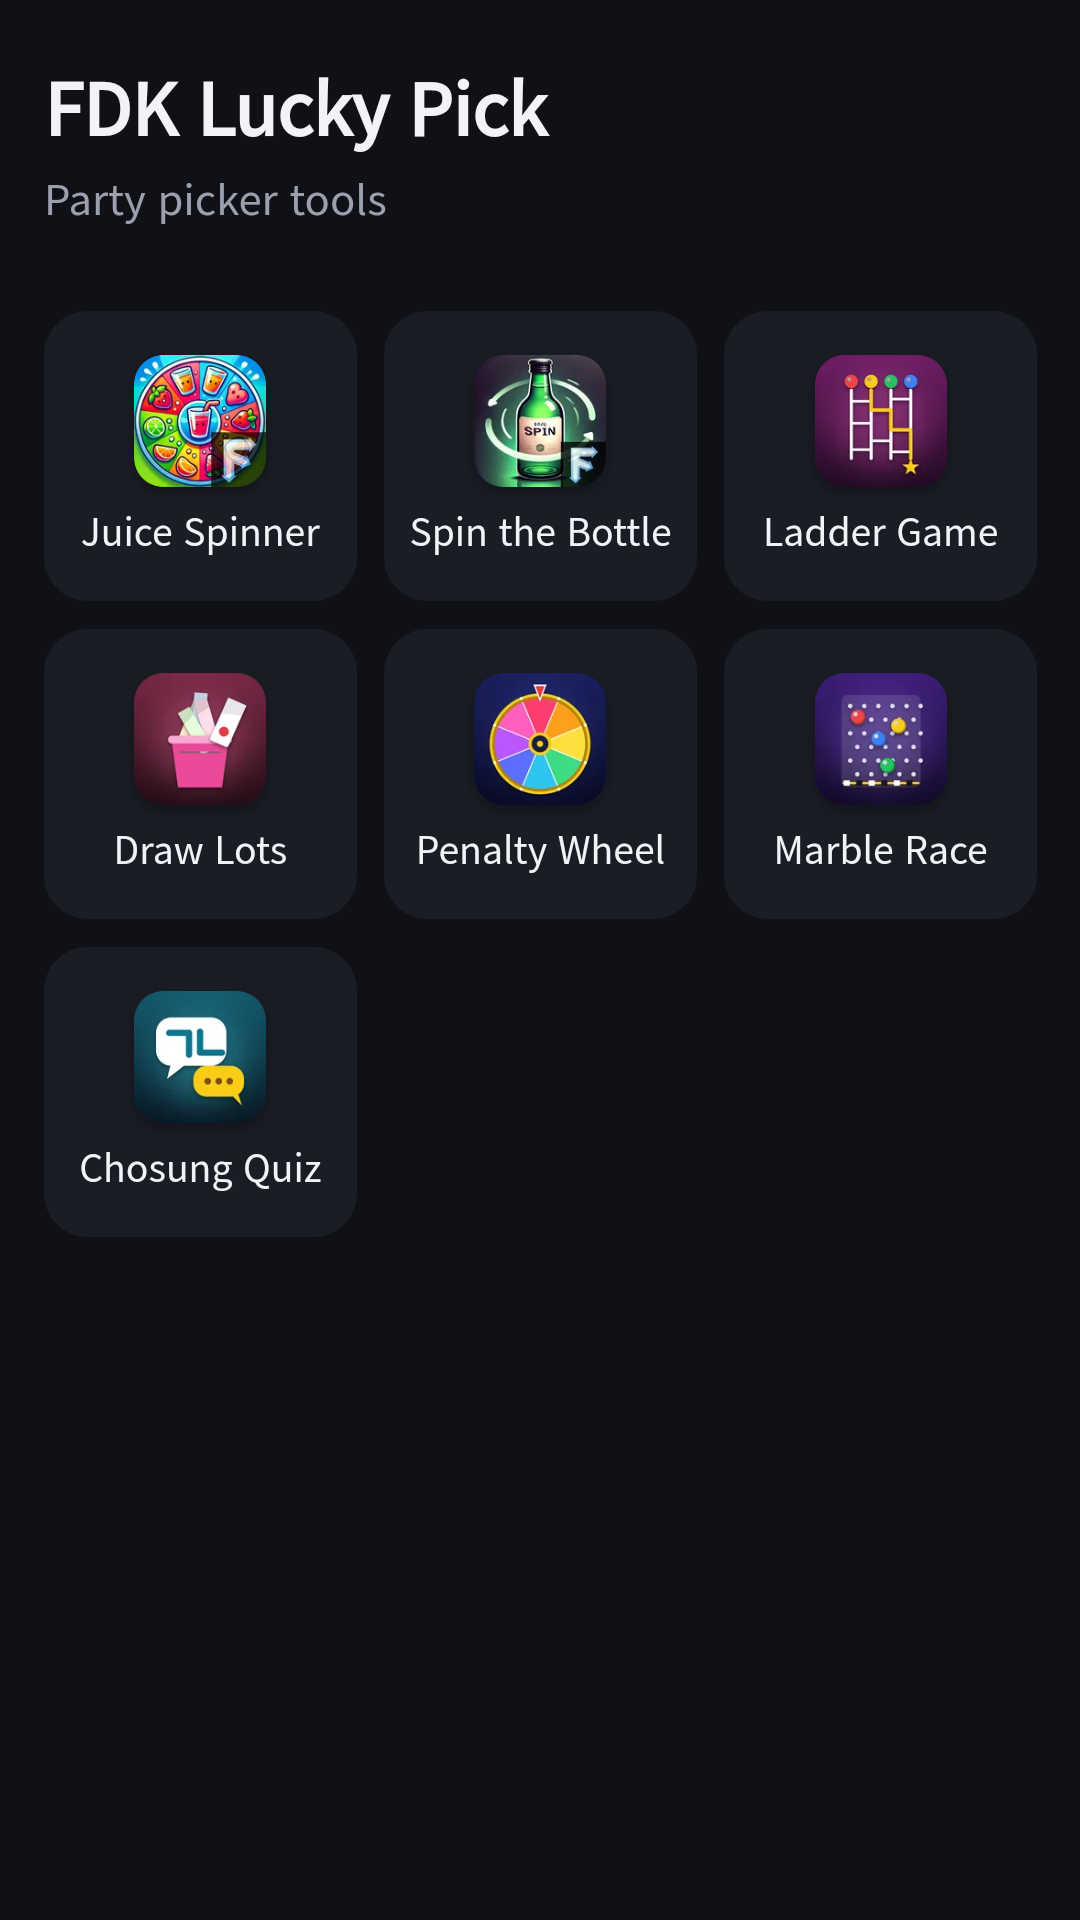
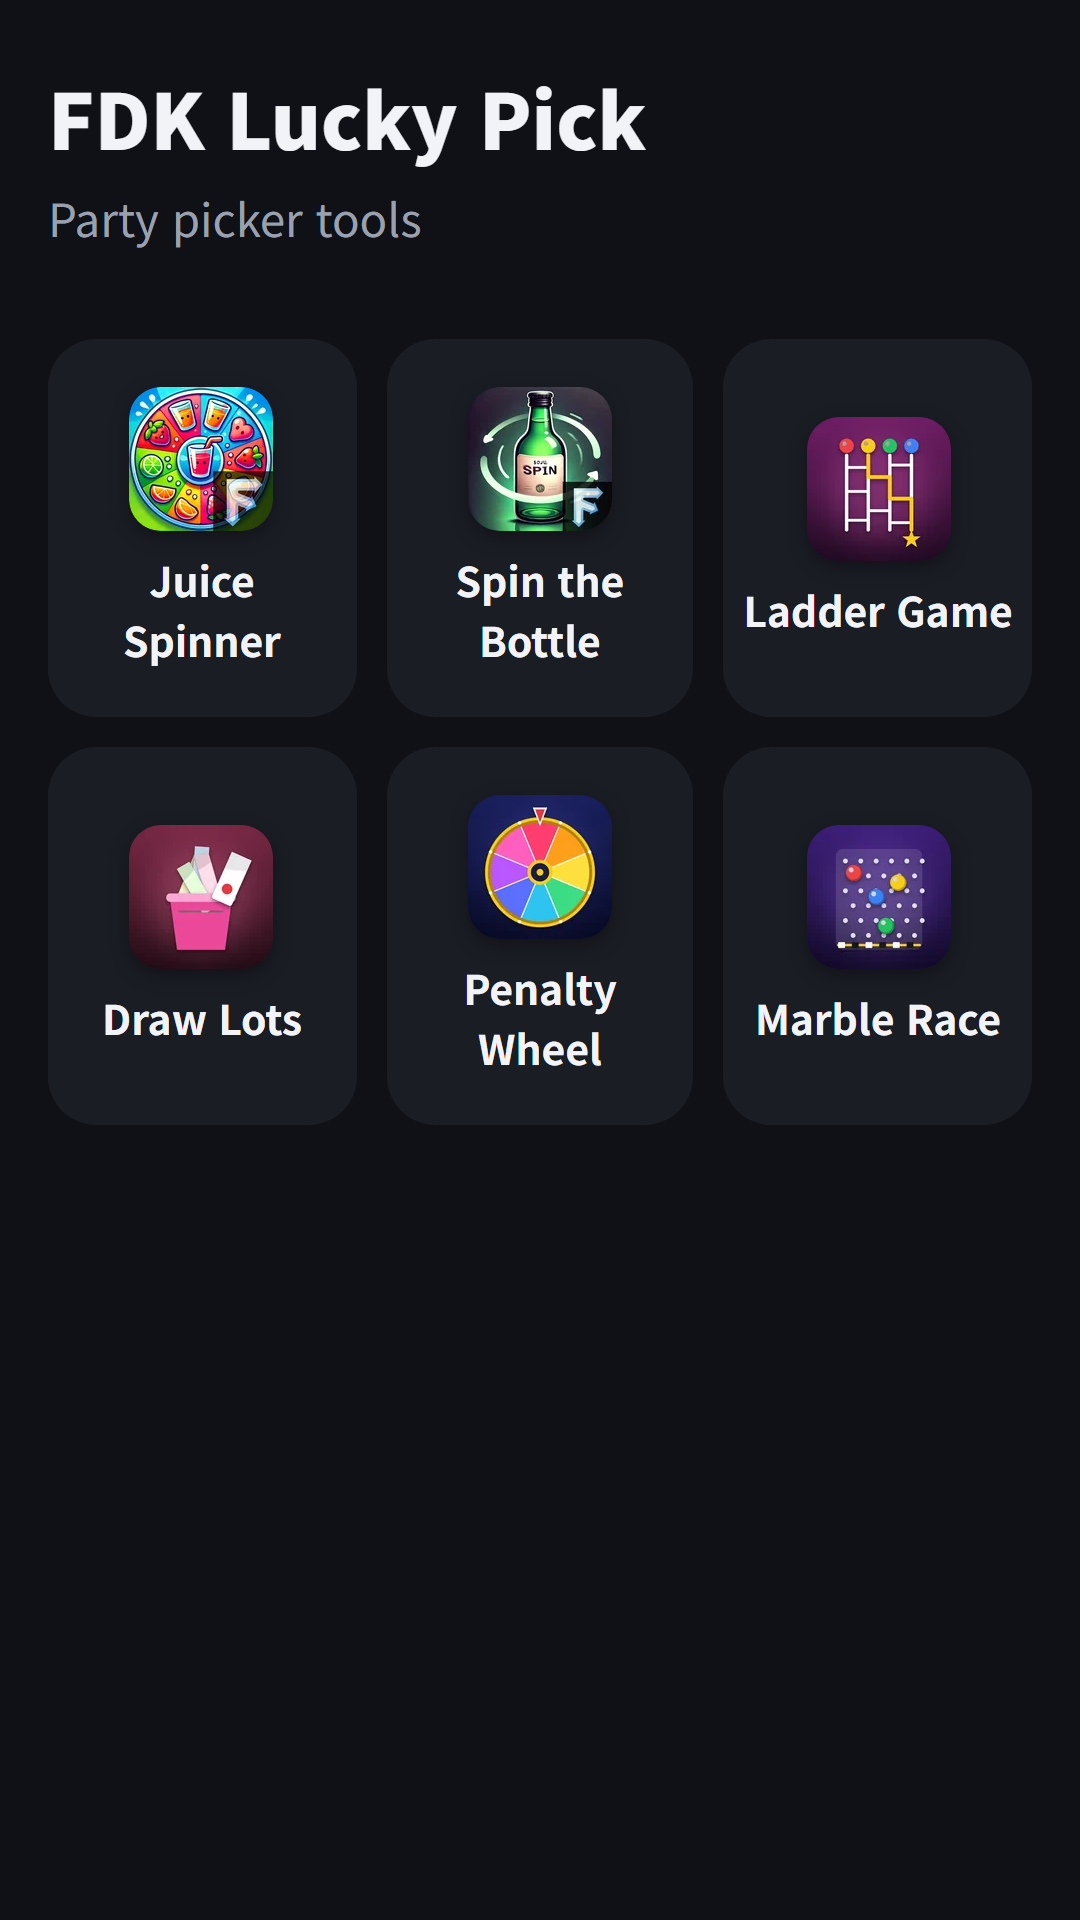
파동권 퀴즈한마당 허브 글(ko·en) 게시, 복불복 허브 글 7종→6종 정정
- 퀴즈한마당: 토스 라이브 20261107-24 기준, Play 는 준비 중, 토스 랜딩·QR·Shorts 포함
- 복불복 허브 글: 초성 퀴즈 제외 반영(문구·홈 스크린샷)
- 넌센스·스무고개 글의 허브 링크 복원

diff --git a/toss/hub-quiz.html b/toss/hub-quiz.html
@@ -1,0 +1,7 @@
+---
+layout: none
+permalink: /toss/hub-quiz/
+app_name: '파동권 퀴즈한마당'
+toss_scheme: intoss://daily-history
+---
+{% include toss-redirect.html %}

diff --git a/_posts/2026-11-03-hub-party.md b/_posts/2026-11-03-hub-party.md
@@ -1,6 +1,6 @@
 ---
-title: 파동권 복불복 — 룰렛·사다리·제비뽑기 모임 도구 7종
-description: "룰렛, 병 돌리기, 사다리타기, 제비뽑기, 벌칙 룰렛, 구슬 레이스, 초성 퀴즈. 오늘 누가 쏠지 정하는 모임 도구 7종을 한 앱에 모아 Google Play에 출시했습니다"
+title: 파동권 복불복 — 룰렛·사다리·제비뽑기 모임 도구 6종
+description: "룰렛, 병 돌리기, 사다리타기, 제비뽑기, 벌칙 룰렛, 구슬 레이스. 오늘 누가 쏠지 정하는 모임 도구 6종을 한 앱에 모아 Google Play에 출시했습니다"
 date: 2026-11-03 19:26:00 +0900
 categories: [Products, App]
 tags: [app, android, 복불복, 룰렛, 모임, 1인개발자]
@@ -10,18 +10,18 @@ image:
 alt_url: /posts/hub-party/
 ---
 ## Info
-> **FDK Lucky Pick: Party Games** — Seven party tools to settle who pays, who gets the dare and who goes first. Free to use on Google Play, with ads.
+> **FDK Lucky Pick: Party Games** — Six party tools to settle who pays, who gets the dare and who goes first. Free to use on Google Play, with ads.
 {: .prompt-info }
 
 ## 이런 앱입니다
-파동권 복불복은 모임에서 바로 쓰는 복불복 도구 7가지를 모은 앱이에요. 오늘 누가 쏠지, 벌칙은 누구인지, 순서는 어떻게 할지 정해 보세요.
+파동권 복불복은 모임에서 바로 쓰는 복불복 도구 6가지를 모은 앱이에요. 오늘 누가 쏠지, 벌칙은 누구인지, 순서는 어떻게 할지 정해 보세요.
 
 재미로 즐기는 놀이용 도구예요.
 
 ## 어떻게 하나요
 - 홈에서 쓰고 싶은 도구를 눌러요
 - 참가자 이름을 한 번 적어 두면 모든 도구에서 같이 써요
-- 주스 스피너 룰렛, 병 돌리기, 사다리타기, 제비뽑기, 벌칙 룰렛, 구슬 레이스, 초성 퀴즈 중에서 모임에 맞는 도구를 골라요
+- 주스 스피너 룰렛, 병 돌리기, 사다리타기, 제비뽑기, 벌칙 룰렛, 구슬 레이스 중에서 모임에 맞는 도구를 골라요
 
 ## 특징
 - 주스 스피너 룰렛과 병 돌리기
@@ -29,17 +29,16 @@ alt_url: /posts/hub-party/
 - 제비뽑기: 제비를 뽑아 결과를 확인해요
 - 벌칙 룰렛: 돌려서 벌칙을 정해요
 - 구슬 레이스: 한 명을 뽑는 랜덤 경주
-- 초성 퀴즈: 초성만 보고 다 같이 단어 맞히기
 
-## 수록된 도구 7종
+## 수록된 도구 6종
 각 도구는 따로 소개 글이 있어요.
 
 - [주스 스피너](/ko/posts/juice-spinner/) · [병 돌리기](/ko/posts/spin-the-bottle/) · [사다리타기](/ko/posts/ladder/) · [제비뽑기](/ko/posts/draw-lots/)
-- [벌칙 룰렛](/ko/posts/penalty-roulette/) · [구슬 레이스](/ko/posts/marble-race/) · [초성 퀴즈](/ko/posts/chosung-quiz/)
+- [벌칙 룰렛](/ko/posts/penalty-roulette/) · [구슬 레이스](/ko/posts/marble-race/)
 
 무료로 즐길 수 있고 광고가 포함되어 있습니다.
 
-![홈 화면 — 주스 스피너·병 돌리기·사다리타기·제비뽑기·벌칙 룰렛·구슬 레이스·초성 퀴즈 7개 도구](/assets/img/20261103_hub-party/hub-party-shot-ko-1.png){: w="360" }
+![홈 화면 — 주스 스피너·병 돌리기·사다리타기·제비뽑기·벌칙 룰렛·구슬 레이스 6개 도구](/assets/img/20261103_hub-party/hub-party-shot-ko-1.png){: w="360" }
 ![주스 스피너 화면 — 인원과 과일을 고르고 돌리기 버튼을 누르는 룰렛](/assets/img/20261103_hub-party/hub-party-shot-ko-2.png){: w="360" }
 ![사다리타기 화면 — 1번부터 4번까지 이름표가 붙은 사다리와 '전체 한 번에 보기' 버튼](/assets/img/20261103_hub-party/hub-party-shot-ko-3.png){: w="360" }
 

diff --git a/_posts/2026-11-08-hub-quiz.md b/_posts/2026-11-08-hub-quiz.md
@@ -1,0 +1,55 @@
+---
+title: 파동권 퀴즈한마당 — 모임 퀴즈 4종을 한 앱에서
+description: "상식 대결, 초성 퀴즈, 스무고개, 넌센스 퀴즈. 모임에서 다 같이 즐기는 퀴즈 4가지를 한 앱에 모아 앱인토스에 출시했습니다"
+date: 2026-11-08 17:55:00 +0900
+categories: [Products, Game]
+tags: [game, 앱인토스, quiz, 퀴즈, 모임, 파티게임, 1인개발자]
+pin: false
+image:
+  path: /assets/img/20261106_hub-quiz/hub-quiz-feature.png
+alt_url: /posts/hub-quiz/
+---
+## Info
+> **FDK Quiz Fest: Party Quizzes** — Four party quiz games in one app: trivia, initials quiz, Twenty Questions and pun riddles. The questions are in Korean. Free to play on Toss, with ads. Google Play is coming soon.
+{: .prompt-info }
+
+## 이런 게임입니다
+파동권 퀴즈한마당은 모임에서 다 같이 즐기는 퀴즈 4가지를 모은 앱이에요. 상식 대결, 초성 퀴즈, 스무고개, 넌센스 퀴즈 중에서 그날 분위기에 맞는 퀴즈를 골라 보세요.
+
+## 어떻게 하나요
+- 홈에서 하고 싶은 퀴즈를 눌러요
+- 참가자 이름을 한 번 적어 두면 모든 퀴즈에서 같이 써요
+- 점수와 순위는 자동으로 정리돼요
+- 혼자 하기 모드가 있는 퀴즈는 혼자서도 즐길 수 있어요
+
+## 특징
+- 상식 대결: 역사·경제·과학·지리 4지선다 퀴즈, 마주 보고 겨루는 둘이 대결까지
+- 초성 퀴즈: 초성만 보고 단어 맞히기
+- 스무고개: 예/아니요 질문 스무 개로 정답 찾기
+- 넌센스 퀴즈: 모임에서 주고받는 유명한 말장난 문제 320개
+- 참가자 이름 한 번 입력으로 모든 퀴즈에서 같이 사용
+
+문제는 한국어로 나와요. 한글을 읽을 수 있어야 즐길 수 있어요. 무료로 즐길 수 있고 광고가 포함되어 있습니다.
+
+![홈 화면 — 상식 대결·초성 퀴즈·스무고개·넌센스 퀴즈 4개 게임](/assets/img/20261106_hub-quiz/hub-quiz-shot-ko-1.png){: w="360" }
+![상식 대결 둘이 대결 화면 — 폰을 사이에 두고 위쪽(파랑)과 아래쪽(주황)에서 같은 문제를 푸는 모습](/assets/img/20261106_hub-quiz/hub-quiz-shot-ko-2.png){: w="360" }
+![스무고개 화면 — 출제자만 보는 단어 카드와 힌트 질문 예시](/assets/img/20261106_hub-quiz/hub-quiz-shot-ko-3.png){: w="360" }
+![넌센스 퀴즈 화면 — 정답과 풀이를 본 뒤 맞힌 사람을 모두 눌러 점수를 주는 모습](/assets/img/20261106_hub-quiz/hub-quiz-shot-ko-4.png){: w="360" }
+
+## 플레이 영상
+{% include embed/youtube.html id='PpReG-E6g_c' %}
+
+## Download
+- 앱인토스(토스 미니앱): <https://fadongkwon.com/toss/hub-quiz/> — 휴대폰에서 열면 토스 앱으로 바로 연결됩니다.
+- Google Play: 준비 중이에요. 열리면 이 글에 링크를 넣을게요.
+
+![파동권 퀴즈한마당 토스 미니앱 QR 코드](/assets/img/toss-qr/hub-quiz.png){: w="200" .normal }
+
+## 함께 볼 앱
+퀴즈한마당에 들어 있는 퀴즈는 따로도 나왔어요.
+
+- [초성 퀴즈](/ko/posts/chosung-quiz/) — 초성만 보고 단어 맞히기
+- [스무고개](/ko/posts/twenty-q/) — 예/아니요 질문 스무 개로 단어 맞히기
+- [넌센스 퀴즈](/ko/posts/nonsense-quiz/) — 말장난 320문제
+
+소식은 이 블로그와 [인스타그램(@fadongkwon.soft)](https://www.instagram.com/fadongkwon.soft/)에서 전해드립니다.

diff --git a/_en_posts/2026-11-08-hub-quiz.md b/_en_posts/2026-11-08-hub-quiz.md
@@ -1,0 +1,59 @@
+---
+title: FDK Quiz Fest — 4 Party Quiz Games in One App (in Korean)
+description: "Trivia Battle, Chosung Quiz, Twenty Questions and Nonsense Quiz in one party quiz app. The questions are in Korean, so you need to read Hangul. Now on Toss"
+image:
+  path: /assets/img/20261106_hub-quiz/hub-quiz-feature-en.png
+  alt: "FDK Quiz Fest: Party Quizzes feature graphic"
+date: 2026-11-08 17:55:00 +0900
+categories: [Products, Game]
+permalink: /posts/hub-quiz/
+alt_url: /ko/posts/hub-quiz/
+struct_exempt: [images]
+tags: [game, apps in toss, quiz, party, solo developer]
+---
+## Info
+> **FDK Quiz Fest: Party Quizzes** — Four party quiz games in one app: trivia, initials quiz, Twenty Questions and pun riddles. The questions are in Korean. Free to play on Toss, with ads. Google Play is coming soon.
+{: .prompt-info }
+
+## About the Game
+FDK Quiz Fest brings four party quiz games together: Trivia Battle, Chosung Quiz, Twenty Questions and Nonsense Quiz. Pick whichever suits the mood of your group.
+
+One honest note: the questions and words are in Korean, so you need to read Hangul.
+
+## How to Play
+- Tap the quiz you want on the home screen
+- Enter the player names once and every quiz uses them
+- Scores and ranks are tallied for you
+- Quizzes that have a solo mode can also be played alone
+
+## Features
+- Trivia Battle: four-choice questions in history, economics, science and geography, including a face-to-face duel mode
+- Chosung Quiz: guess the word from its initial consonants
+- Twenty Questions: find the secret word in 20 yes-or-no questions
+- Nonsense Quiz: 320 classic pun riddles
+- One player list shared by all the quizzes
+
+It is free to play and contains ads.
+
+![The home screen with four games: Trivia Battle, Chosung Quiz, Twenty Questions and Nonsense Quiz](/assets/img/20261106_hub-quiz/hub-quiz-shot-en-1.png){: w="360" }
+![Trivia Battle duel mode: two players face each other across one phone, blue on top and orange on the bottom, answering the same question (in Korean)](/assets/img/20261106_hub-quiz/hub-quiz-shot-en-2.png){: w="360" }
+![Twenty Questions: a word card that only the question giver sees, with example hint questions (in Korean)](/assets/img/20261106_hub-quiz/hub-quiz-shot-en-3.png){: w="360" }
+![Nonsense Quiz: after the answer and explanation are shown, tap everyone who got it to give points (in Korean)](/assets/img/20261106_hub-quiz/hub-quiz-shot-en-4.png){: w="360" }
+
+## Gameplay Video
+{% include embed/youtube.html id='PpReG-E6g_c' %}
+
+## Download
+- Apps in Toss (Toss mini app): <https://fadongkwon.com/toss/hub-quiz/> — open it on your phone and it jumps straight into the Toss app.
+- Google Play: coming soon. I will add the link here once it is live.
+
+![FDK Quiz Fest Toss mini app QR code](/assets/img/toss-qr/hub-quiz.png){: w="200" .normal }
+
+## See Also
+The quizzes inside Quiz Fest also came out as separate apps.
+
+- [Chosung Quiz](/posts/chosung-quiz/) — Guess Korean words from their initials
+- [Twenty Questions](/posts/twenty-q/) — Find the secret word in 20 yes-or-no questions
+- [Nonsense Quiz](/posts/nonsense-quiz/) — 320 Korean pun riddles
+
+I post updates here and on [Instagram (@fadongkwon.soft)](https://www.instagram.com/fadongkwon.soft/).

diff --git a/_en_posts/2026-11-03-hub-party.md b/_en_posts/2026-11-03-hub-party.md
@@ -1,6 +1,6 @@
 ---
-title: FDK Lucky Pick — 7 Party Tools for Roulette, Ladder and Lots
-description: "Juice Spinner, Spin the Bottle, Ladder, Draw Lots, Penalty Wheel, Marble Race and Chosung Quiz. Seven ways to settle who pays, in one app. Now on Google Play"
+title: FDK Lucky Pick — 6 Party Tools for Roulette, Ladder and Lots
+description: "Juice Spinner, Spin the Bottle, Ladder, Draw Lots, Penalty Wheel, Marble Race. Six ways to settle who pays, in one app. Now on Google Play"
 image:
   path: /assets/img/20261103_hub-party/hub-party-feature-en.png
   alt: "FDK Lucky Pick: Party Games feature graphic"
@@ -12,18 +12,18 @@ struct_exempt: [images]
 tags: [app, android, party, roulette, solo developer]
 ---
 ## Info
-> **FDK Lucky Pick: Party Games** — Seven party tools to settle who pays, who gets the dare and who goes first. Free to use on Google Play, with ads.
+> **FDK Lucky Pick: Party Games** — Six party tools to settle who pays, who gets the dare and who goes first. Free to use on Google Play, with ads.
 {: .prompt-info }
 
 ## About the App
-FDK Lucky Pick is a party tool app with seven ways to settle who pays, who gets the dare and who goes first.
+FDK Lucky Pick is a party tool app with six ways to settle who pays, who gets the dare and who goes first.
 
 It is a tool for fun and games.
 
 ## How to Use
 - Tap the tool you want on the home screen
 - Enter the player names once and every tool uses them
-- Choose from Juice Spinner roulette, Spin the Bottle, Ladder, Draw Lots, Penalty Wheel, Marble Race and Chosung Quiz, whichever suits your group
+- Choose from Juice Spinner roulette, Spin the Bottle, Ladder, Draw Lots, Penalty Wheel, Marble Race, whichever suits your group
 
 ## Features
 - Juice Spinner roulette and Spin the Bottle
@@ -31,17 +31,16 @@ It is a tool for fun and games.
 - Draw Lots: pick a slip and reveal the result
 - Penalty Wheel: spin for the dare
 - Marble Race: a random race that picks one person
-- Chosung Quiz: guess the word from its first letters together
 
-## The 7 Tools Inside
+## The 6 Tools Inside
 Each tool has its own write-up.
 
 - [Juice Spinner](/posts/juice-spinner/) · [Spin the Bottle](/posts/spin-the-bottle/) · [Ladder Game](/posts/ladder/) · [Draw Lots](/posts/draw-lots/)
-- [Penalty Wheel](/posts/penalty-roulette/) · [Marble Race](/posts/marble-race/) · [Chosung Quiz](/posts/chosung-quiz/)
+- [Penalty Wheel](/posts/penalty-roulette/) · [Marble Race](/posts/marble-race/)
 
 It is free to play and contains ads.
 
-![The home screen with seven tools: Juice Spinner, Spin the Bottle, Ladder, Draw Lots, Penalty Wheel, Marble Race and Chosung Quiz](/assets/img/20261103_hub-party/hub-party-shot-en-1.png){: w="360" }
+![The home screen with six tools: Juice Spinner, Spin the Bottle, Ladder, Draw Lots, Penalty Wheel, Marble Race](/assets/img/20261103_hub-party/hub-party-shot-en-1.png){: w="360" }
 ![The Juice Spinner screen: pick the number of players and a fruit, then tap Spin on the roulette](/assets/img/20261103_hub-party/hub-party-shot-en-2.png){: w="360" }
 ![The Ladder screen: a ladder with name tabs No. 1 to No. 4 and a Show all at once button](/assets/img/20261103_hub-party/hub-party-shot-en-3.png){: w="360" }
 

diff --git a/_en_posts/2026-11-07-nonsense-quiz.md b/_en_posts/2026-11-07-nonsense-quiz.md
@@ -52,7 +52,7 @@ These apps came out on Google Play around the same time.
 
 <!-- TODO: hub-quiz·quiz-battle·cert-hub 글 게시 뒤 링크 복원 -->
 
-- FDK Quiz Fest — Four party quiz games, including Nonsense Quiz
+- [FDK Quiz Fest](/posts/hub-quiz/) — Four party quiz games, including Nonsense Quiz
 - Trivia Battle — Four-choice trivia duels in history, economics, science and geography
 - [Chosung Quiz](/posts/chosung-quiz/) — Guess Korean words from their initials
 - [Twenty Questions](/posts/twenty-q/) — Find the secret word in 20 yes-or-no questions

diff --git a/_posts/2026-11-07-nonsense-quiz.md b/_posts/2026-11-07-nonsense-quiz.md
@@ -48,7 +48,7 @@ alt_url: /posts/nonsense-quiz/
 
 <!-- TODO: hub-quiz·quiz-battle·cert-hub 글 게시 뒤 링크 복원 -->
 
-- 파동권 퀴즈한마당 — 넌센스 퀴즈를 포함한 모임 퀴즈 4종
+- [파동권 퀴즈한마당](/ko/posts/hub-quiz/) — 넌센스 퀴즈를 포함한 모임 퀴즈 4종
 - 상식 대결 — 역사·경제·과학·지리 4지선다 퀴즈 대결
 - [초성 퀴즈](/ko/posts/chosung-quiz/) — 초성만 보고 단어 맞히기
 - [스무고개](/ko/posts/twenty-q/) — 예/아니요 질문 스무 개로 단어 맞히기

diff --git a/_en_posts/2026-11-07-twenty-q.md b/_en_posts/2026-11-07-twenty-q.md
@@ -53,7 +53,7 @@ These apps came out on Google Play around the same time.
 
 <!-- TODO: hub-quiz·quiz-battle·cert-hub 글 게시 뒤 링크 복원 -->
 
-- FDK Quiz Fest — Four party quiz games, including Twenty Questions
+- [FDK Quiz Fest](/posts/hub-quiz/) — Four party quiz games, including Twenty Questions
 - Trivia Battle — Four-choice trivia duels in history, economics, science and geography
 - [Chosung Quiz](/posts/chosung-quiz/) — Guess Korean words from their initials
 - [Nonsense Quiz](/posts/nonsense-quiz/) — 300 original Korean pun riddles

diff --git a/_posts/2026-11-07-twenty-q.md b/_posts/2026-11-07-twenty-q.md
@@ -49,7 +49,7 @@ alt_url: /posts/twenty-q/
 
 <!-- TODO: hub-quiz·quiz-battle·cert-hub 글 게시 뒤 링크 복원 -->
 
-- 파동권 퀴즈한마당 — 스무고개를 포함한 모임 퀴즈 4종
+- [파동권 퀴즈한마당](/ko/posts/hub-quiz/) — 스무고개를 포함한 모임 퀴즈 4종
 - 상식 대결 — 역사·경제·과학·지리 4지선다 퀴즈 대결
 - [초성 퀴즈](/ko/posts/chosung-quiz/) — 초성만 보고 단어 맞히기
 - [넌센스 퀴즈](/ko/posts/nonsense-quiz/) — 직접 만든 말장난 300문제
